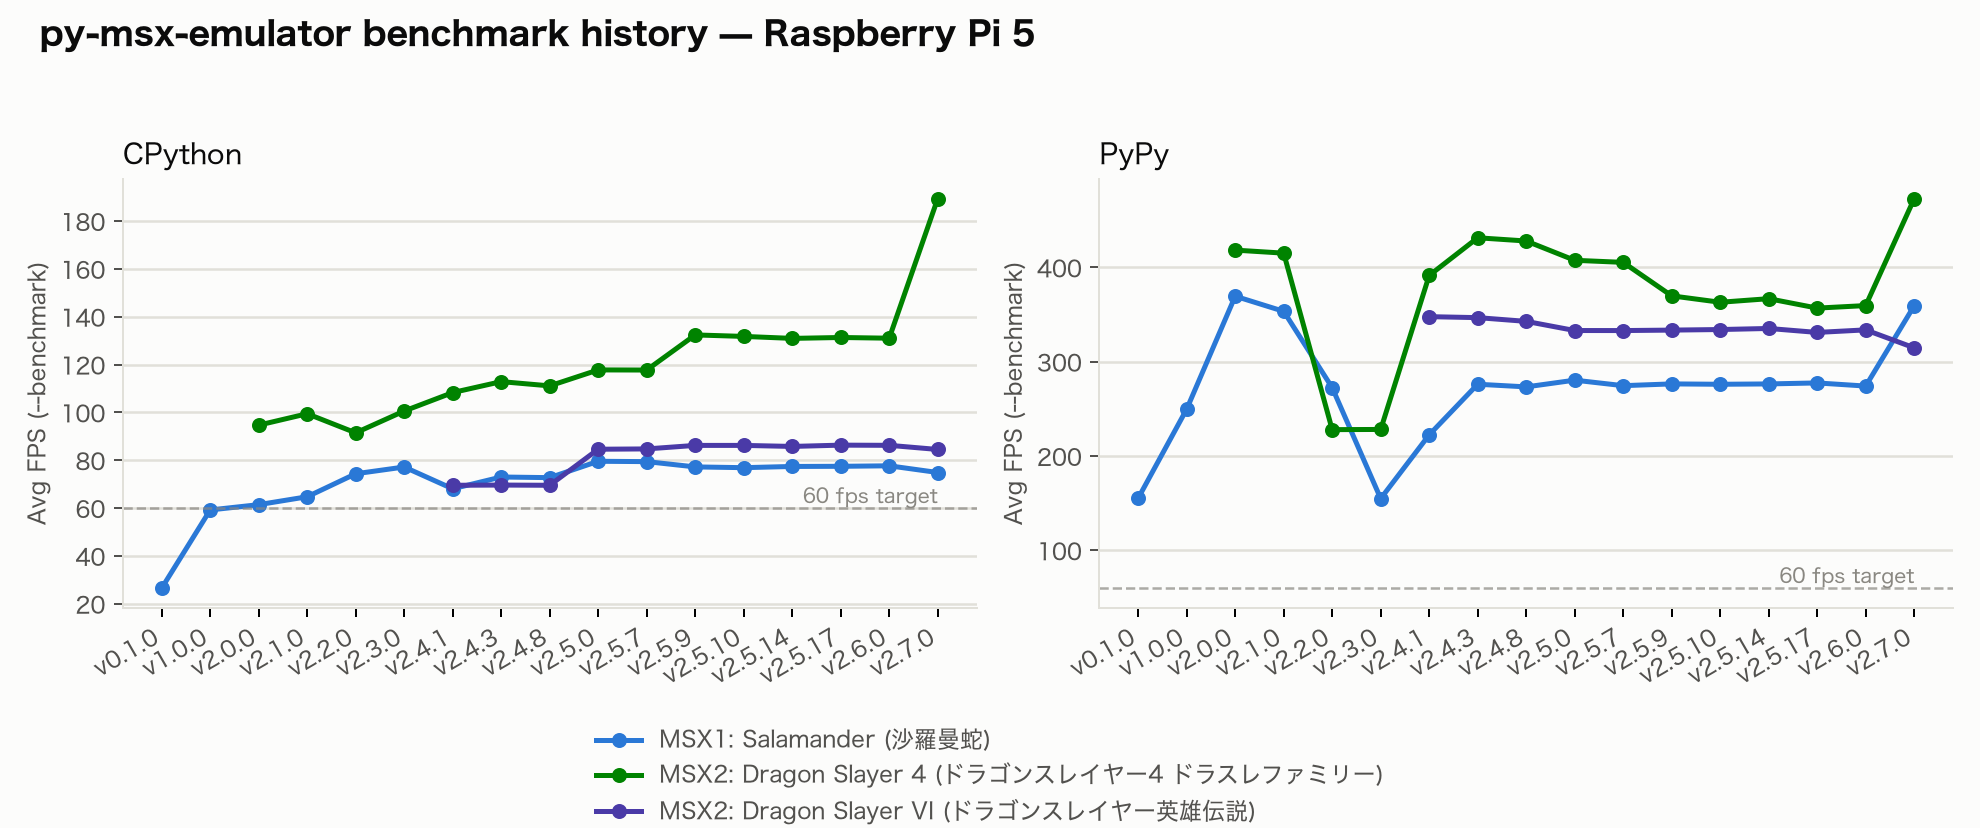
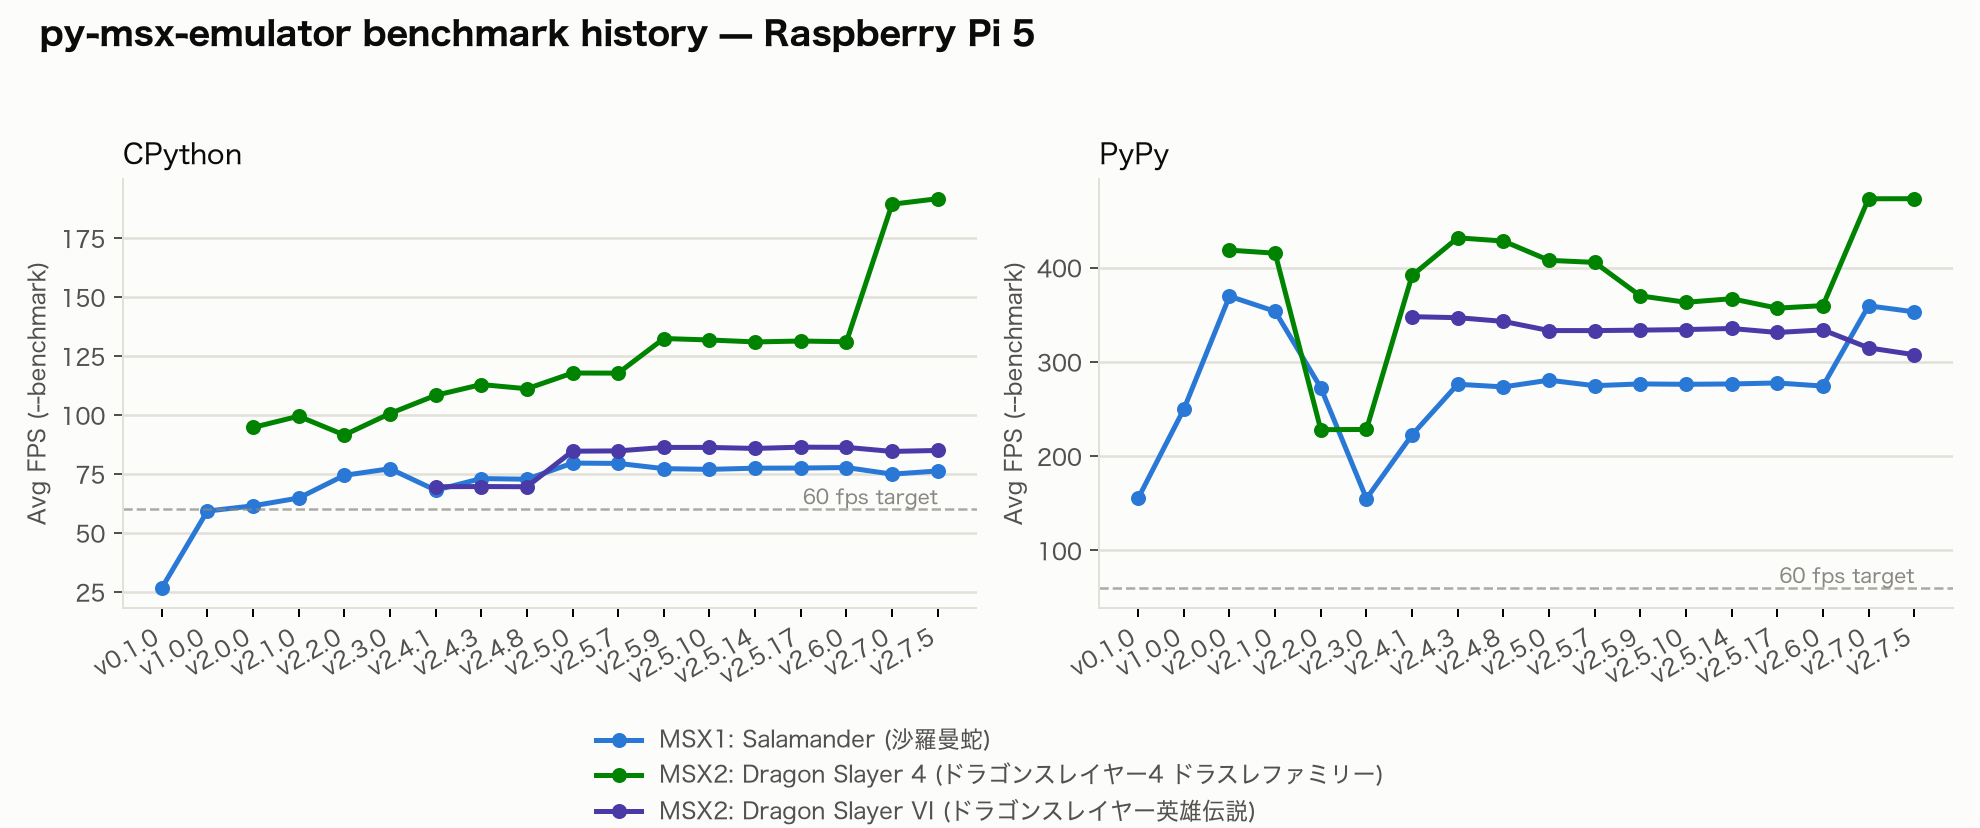
chore(release): prepare v2.7.5 (changelog, version bump, benchmarks)
Add the v2.7.5 benchmark logs, update the README benchmark table and
history charts, write the CHANGELOG entry and bump the version.

diff --git a/README_ja.md b/README_ja.md
@@ -345,26 +345,26 @@ All VRAM addresses SHALL be masked to 14 bits (`& 0x3FFF`).
 
 | プラットフォーム | ランタイム | ゲーム | 平均 FPS（`--benchmark`） | 60 fps 目標との比 |
 | --- | --- | --- | --- | --- |
-| Apple MacBook Pro（M5 Pro） | CPython 3.12.13 | MSX1: 沙羅曼蛇（CPU+TMS9918+SCC） | 285.57 | 約 4.8 倍 |
-| Apple MacBook Pro（M5 Pro） | CPython 3.12.13 | MSX2: ドラゴンスレイヤー4（CPU+V9938+PSG） | 571.82 | 約 9.5 倍 |
-| Apple MacBook Pro（M5 Pro） | CPython 3.12.13 | MSX2: ドラゴンスレイヤー英雄伝説（CPU+V9938+FDC+FMPAC） | 299.56 | 約 5.0 倍 |
-| Apple MacBook Pro（M5 Pro） | PyPy 7.3.19（Python 3.10.16） | MSX1: 沙羅曼蛇（CPU+TMS9918+SCC） | 1123.72 | 約 18.7 倍 |
-| Apple MacBook Pro（M5 Pro） | PyPy 7.3.19（Python 3.10.16） | MSX2: ドラゴンスレイヤー4（CPU+V9938+PSG） | 1269.52 | 約 21.2 倍 |
-| Apple MacBook Pro（M5 Pro） | PyPy 7.3.19（Python 3.10.16） | MSX2: ドラゴンスレイヤー英雄伝説（CPU+V9938+FDC+FMPAC） | 1069.07 | 約 17.8 倍 |
-| Raspberry Pi 5 | CPython 3.12.13 | MSX1: 沙羅曼蛇（CPU+TMS9918+SCC） | 74.91 | 約 1.2 倍 |
-| Raspberry Pi 5 | CPython 3.12.13 | MSX2: ドラゴンスレイヤー4（CPU+V9938+PSG） | 189.38 | 約 3.2 倍 |
-| Raspberry Pi 5 | CPython 3.12.13 | MSX2: ドラゴンスレイヤー英雄伝説（CPU+V9938+FDC+FMPAC） | 84.54 | 約 1.4 倍 |
-| Raspberry Pi 5 | PyPy 7.3.19（Python 3.10.16） | MSX1: 沙羅曼蛇（CPU+TMS9918+SCC） | 359.38 | 約 6.0 倍 |
-| Raspberry Pi 5 | PyPy 7.3.19（Python 3.10.16） | MSX2: ドラゴンスレイヤー4（CPU+V9938+PSG） | 472.93 | 約 7.9 倍 |
-| Raspberry Pi 5 | PyPy 7.3.19（Python 3.10.16） | MSX2: ドラゴンスレイヤー英雄伝説（CPU+V9938+FDC+FMPAC） | 314.82 | 約 5.2 倍 |
+| Apple MacBook Pro（M5 Pro） | CPython 3.12.13 | MSX1: 沙羅曼蛇（CPU+TMS9918+SCC） | 292.67 | 約 4.9 倍 |
+| Apple MacBook Pro（M5 Pro） | CPython 3.12.13 | MSX2: ドラゴンスレイヤー4（CPU+V9938+PSG） | 705.33 | 約 11.8 倍 |
+| Apple MacBook Pro（M5 Pro） | CPython 3.12.13 | MSX2: ドラゴンスレイヤー英雄伝説（CPU+V9938+FDC+FMPAC） | 313.11 | 約 5.2 倍 |
+| Apple MacBook Pro（M5 Pro） | PyPy 7.3.19（Python 3.10.16） | MSX1: 沙羅曼蛇（CPU+TMS9918+SCC） | 1226.14 | 約 20.4 倍 |
+| Apple MacBook Pro（M5 Pro） | PyPy 7.3.19（Python 3.10.16） | MSX2: ドラゴンスレイヤー4（CPU+V9938+PSG） | 1412.82 | 約 23.5 倍 |
+| Apple MacBook Pro（M5 Pro） | PyPy 7.3.19（Python 3.10.16） | MSX2: ドラゴンスレイヤー英雄伝説（CPU+V9938+FDC+FMPAC） | 1151.97 | 約 19.2 倍 |
+| Raspberry Pi 5 | CPython 3.12.13 | MSX1: 沙羅曼蛇（CPU+TMS9918+SCC） | 76.25 | 約 1.3 倍 |
+| Raspberry Pi 5 | CPython 3.12.13 | MSX2: ドラゴンスレイヤー4（CPU+V9938+PSG） | 191.72 | 約 3.2 倍 |
+| Raspberry Pi 5 | CPython 3.12.13 | MSX2: ドラゴンスレイヤー英雄伝説（CPU+V9938+FDC+FMPAC） | 84.96 | 約 1.4 倍 |
+| Raspberry Pi 5 | PyPy 7.3.19（Python 3.10.16） | MSX1: 沙羅曼蛇（CPU+TMS9918+SCC） | 353.01 | 約 5.9 倍 |
+| Raspberry Pi 5 | PyPy 7.3.19（Python 3.10.16） | MSX2: ドラゴンスレイヤー4（CPU+V9938+PSG） | 472.98 | 約 7.9 倍 |
+| Raspberry Pi 5 | PyPy 7.3.19（Python 3.10.16） | MSX2: ドラゴンスレイヤー英雄伝説（CPU+V9938+FDC+FMPAC） | 307.53 | 約 5.1 倍 |
 
-今回計測したすべての組み合わせが、生の 60 fps 目標をクリアしています。最も余裕が小さいのは Raspberry Pi 5 + CPython で沙羅曼蛇（MSX1、KonamiSCC マッパー、対象タイトルの中で描画・オーディオ負荷が最も重い）を実行した場合で、約 1.2 倍です。PyPy に切り替えると同じケースが約 6.0 倍まで上がります。Raspberry Pi 5 より低速なハードウェア、あるいはより重いタイトルでは 60 fps を下回ることがあり、その場合は達成されたフレームレートに比例してゲームがスローモーションで動作します。オーディオサンプルはフレームごとに生成される一方でオーディオデバイスは常に 44100 Hz で消費するため、オーディオも劣化します（クリックノイズや無音）。PyPy3 はそのまま代替として使えるランタイムであり、処理能力の低いハードウェアでのスループットを大幅に改善するため、Raspberry Pi のような制約のあるハードウェアで余裕を保つために推奨されます。
+今回計測したすべての組み合わせが、生の 60 fps 目標をクリアしています。最も余裕が小さいのは Raspberry Pi 5 + CPython で沙羅曼蛇（MSX1、KonamiSCC マッパー、対象タイトルの中で描画・オーディオ負荷が最も重い）を実行した場合で、約 1.3 倍です。PyPy に切り替えると同じケースが約 5.9 倍まで上がります。Raspberry Pi 5 より低速なハードウェア、あるいはより重いタイトルでは 60 fps を下回ることがあり、その場合は達成されたフレームレートに比例してゲームがスローモーションで動作します。オーディオサンプルはフレームごとに生成される一方でオーディオデバイスは常に 44100 Hz で消費するため、オーディオも劣化します（クリックノイズや無音）。PyPy3 はそのまま代替として使えるランタイムであり、処理能力の低いハードウェアでのスループットを大幅に改善するため、Raspberry Pi のような制約のあるハードウェアで余裕を保つために推奨されます。
 
 PyPy の数値は CPython よりも実行ごとのブレが大きくなりやすい点に注意してください。特定の（プラットフォーム、ゲーム）の組み合わせで、通常の範囲から大きく外れた値が出ることがあります。エミュレータ自体の問題というより、OS/ハードウェア側のスケジューリング挙動（コア間の移動やサーマルスロットリングなど）が原因である可能性が高いです。PyPy の数値は正確な値というより、大まかな目安として捉えてください。
 
 ### ベンチマーク推移
 
-v0.1.0 から v2.7.0 までの平均 FPS（`--benchmark`）の推移（プラットフォーム・ランタイム別）。すべて上記のコールドブート方式で統一して計測しています。
+v0.1.0 から v2.7.5 までの平均 FPS（`--benchmark`）の推移（プラットフォーム・ランタイム別）。すべて上記のコールドブート方式で統一して計測しています。
 
 ![Apple MacBook Pro（M5 Pro）でのベンチマーク推移](assets/bench-history-m5pro.png)
 

diff --git a/README.md b/README.md
@@ -583,23 +583,23 @@ the fastest and the slowest run.
 
 | Platform | Runtime | Game | Avg FPS (`--benchmark`) | vs. 60 fps target |
 | --- | --- | --- | --- | --- |
-| Apple MacBook Pro (M5 Pro) | CPython 3.12.13 | MSX1: Salamander (CPU+TMS9918+SCC) | 285.57 | ~4.8× |
-| Apple MacBook Pro (M5 Pro) | CPython 3.12.13 | MSX2: Dragon Slayer 4 (CPU+V9938+PSG) | 571.82 | ~9.5× |
-| Apple MacBook Pro (M5 Pro) | CPython 3.12.13 | MSX2: Dragon Slayer VI - The Legend of Heroes (CPU+V9938+FDC+FMPAC) | 299.56 | ~5.0× |
-| Apple MacBook Pro (M5 Pro) | PyPy 7.3.19 (Python 3.10.16) | MSX1: Salamander (CPU+TMS9918+SCC) | 1123.72 | ~18.7× |
-| Apple MacBook Pro (M5 Pro) | PyPy 7.3.19 (Python 3.10.16) | MSX2: Dragon Slayer 4 (CPU+V9938+PSG) | 1269.52 | ~21.2× |
-| Apple MacBook Pro (M5 Pro) | PyPy 7.3.19 (Python 3.10.16) | MSX2: Dragon Slayer VI - The Legend of Heroes (CPU+V9938+FDC+FMPAC) | 1069.07 | ~17.8× |
-| Raspberry Pi 5 | CPython 3.12.13 | MSX1: Salamander (CPU+TMS9918+SCC) | 74.91 | ~1.2× |
-| Raspberry Pi 5 | CPython 3.12.13 | MSX2: Dragon Slayer 4 (CPU+V9938+PSG) | 189.38 | ~3.2× |
-| Raspberry Pi 5 | CPython 3.12.13 | MSX2: Dragon Slayer VI - The Legend of Heroes (CPU+V9938+FDC+FMPAC) | 84.54 | ~1.4× |
-| Raspberry Pi 5 | PyPy 7.3.19 (Python 3.10.16) | MSX1: Salamander (CPU+TMS9918+SCC) | 359.38 | ~6.0× |
-| Raspberry Pi 5 | PyPy 7.3.19 (Python 3.10.16) | MSX2: Dragon Slayer 4 (CPU+V9938+PSG) | 472.93 | ~7.9× |
-| Raspberry Pi 5 | PyPy 7.3.19 (Python 3.10.16) | MSX2: Dragon Slayer VI - The Legend of Heroes (CPU+V9938+FDC+FMPAC) | 314.82 | ~5.2× |
+| Apple MacBook Pro (M5 Pro) | CPython 3.12.13 | MSX1: Salamander (CPU+TMS9918+SCC) | 292.67 | ~4.9× |
+| Apple MacBook Pro (M5 Pro) | CPython 3.12.13 | MSX2: Dragon Slayer 4 (CPU+V9938+PSG) | 705.33 | ~11.8× |
+| Apple MacBook Pro (M5 Pro) | CPython 3.12.13 | MSX2: Dragon Slayer VI - The Legend of Heroes (CPU+V9938+FDC+FMPAC) | 313.11 | ~5.2× |
+| Apple MacBook Pro (M5 Pro) | PyPy 7.3.19 (Python 3.10.16) | MSX1: Salamander (CPU+TMS9918+SCC) | 1226.14 | ~20.4× |
+| Apple MacBook Pro (M5 Pro) | PyPy 7.3.19 (Python 3.10.16) | MSX2: Dragon Slayer 4 (CPU+V9938+PSG) | 1412.82 | ~23.5× |
+| Apple MacBook Pro (M5 Pro) | PyPy 7.3.19 (Python 3.10.16) | MSX2: Dragon Slayer VI - The Legend of Heroes (CPU+V9938+FDC+FMPAC) | 1151.97 | ~19.2× |
+| Raspberry Pi 5 | CPython 3.12.13 | MSX1: Salamander (CPU+TMS9918+SCC) | 76.25 | ~1.3× |
+| Raspberry Pi 5 | CPython 3.12.13 | MSX2: Dragon Slayer 4 (CPU+V9938+PSG) | 191.72 | ~3.2× |
+| Raspberry Pi 5 | CPython 3.12.13 | MSX2: Dragon Slayer VI - The Legend of Heroes (CPU+V9938+FDC+FMPAC) | 84.96 | ~1.4× |
+| Raspberry Pi 5 | PyPy 7.3.19 (Python 3.10.16) | MSX1: Salamander (CPU+TMS9918+SCC) | 353.01 | ~5.9× |
+| Raspberry Pi 5 | PyPy 7.3.19 (Python 3.10.16) | MSX2: Dragon Slayer 4 (CPU+V9938+PSG) | 472.98 | ~7.9× |
+| Raspberry Pi 5 | PyPy 7.3.19 (Python 3.10.16) | MSX2: Dragon Slayer VI - The Legend of Heroes (CPU+V9938+FDC+FMPAC) | 307.53 | ~5.1× |
 
 Every tested combination is faster than the raw 60 fps target. The smallest
-margin is ~1.2×, on Raspberry Pi 5 with CPython and Salamander. Salamander
+margin is ~1.3×, on Raspberry Pi 5 with CPython and Salamander. Salamander
 (MSX1, KonamiSCC mapper) has the heaviest rendering and audio load of the
-target titles. PyPy increases the same case to ~6.0×.
+target titles. PyPy increases the same case to ~5.9×.
 
 On hardware slower than a Raspberry Pi 5, or with a heavier title, a run can
 still go below 60 fps. If this occurs, the game runs in slow motion, at a rate
@@ -617,7 +617,7 @@ values, not exact values.
 
 ### Benchmark history
 
-Avg FPS (`--benchmark`) from v0.1.0 through v2.7.0, per platform and runtime.
+Avg FPS (`--benchmark`) from v0.1.0 through v2.7.5, per platform and runtime.
 The author measured all versions with the same cold-boot method as above.
 
 ![Benchmark history on Apple MacBook Pro (M5 Pro)](assets/bench-history-m5pro.png)

diff --git a/CHANGELOG_ja.md b/CHANGELOG_ja.md
@@ -2,6 +2,19 @@
 
 [English version here](CHANGELOG.md)
 
+- **v2.7.5** (2026-10-08): 作者所有の実機 Sony HB-10 でのテストで見つかった MSX1 VDP と PPI の動作を修正。
+  - MSX1 VDP(TMS9918A): ポート 0x98 への書き込みで先読みバッファも更新するので、OUT の直後の IN は書いた値を返す
+    (V9938 と同じ)。
+  - PPI: HB-10(Yamaha S3527)でポート 0xAB を読むと、最後の PPI アクセスでラッチされたバイトを返す。0xA8〜0xAA の
+    読み出しなら読んだ値、0xA8〜0xAB への書き込みなら書いた値のビット反転。`ppi8255` デバイスの設定
+    `control_readback`(true/false)を `control_read` に置き換えた: `control`(最後のモード設定値、デフォルト)、
+    `open_bus`(0xFF、S1985 搭載マシン)、`bus_latch`(`hb_10`、`hb_10_64k`)。`control_readback` を設定したままの
+    マシンファイルは、`control_read` を示すエラーで読み込みを拒否する。
+  - HB-10 では、R レジスタの増え方、非公式の Y/X フラグ、DD プレフィックスの実行時間、NEG/RETN の ED ミラー、MSX1
+    VDP の書きかけの制御ポートの扱いも確認した。どれも変更は不要だった。
+  - ドキュメントを現在の動作に合わせた: R の数え方、マシンごとの PPI 0xAB の読み出し値、ローダーが読む `ppi8255` の
+    キー、デバッガの `reset` の対象範囲、`te` が両方の VDP で動くこと、トレースの出力形式。ベンチマークの表と推移
+    グラフを v2.7.5 に更新した。
 - **v2.7.4** (2026-10-07): V9938 の R#13 ブリンクを実装。作者所有の実機 Sony HB-F1XD でのテストで見つかった V9938、
   Z80、PPI の動作を修正。
   - 新機能: R#13 ブリンク。TEXT2(SCREEN 0、WIDTH 80)では、ブリンクテーブルで指定した文字が ON の期間に R#12 の色で

diff --git a/CHANGELOG.md b/CHANGELOG.md
@@ -2,6 +2,19 @@
 
 [日本語版はこちら](CHANGELOG_ja.md)
 
+- **v2.7.5** (2026-10-08): Fix the MSX1 VDP and the PPI behaviour found by tests on the author's real Sony HB-10.
+  - MSX1 VDP (TMS9918A): a port 0x98 write also refills the read-ahead buffer, so an IN right after an OUT returns the
+    written byte, as on the V9938.
+  - PPI: a port 0xAB read on the HB-10 (Yamaha S3527) returns a byte latched by the last PPI access: the byte a read of
+    0xA8-0xAA returned, or the inverse of the byte a write to 0xA8-0xAB carried. The `ppi8255` device setting
+    `control_readback` (true/false) is replaced by `control_read`: `control` (the last mode word, the default),
+    `open_bus` (0xFF, the S1985 machines) or `bus_latch` (`hb_10`, `hb_10_64k`). A machine file that still sets
+    `control_readback` is rejected with a message naming `control_read`.
+  - The HB-10 also confirmed the R register count, the undocumented Y/X flags, the absorbed DD prefix timing, the ED
+    mirrors of NEG/RETN and the half-written control pair on the MSX1 VDP; no change was needed there.
+  - Documentation matches the current behaviour: R counting, the per-machine PPI 0xAB read, the loader's `ppi8255`
+    keys, the full scope of the debugger `reset`, `te` on both VDP types and the trace output format. Benchmark table
+    and history charts updated to v2.7.5.
 - **v2.7.4** (2026-10-07): Emulate the V9938 R#13 blink, and fix V9938, Z80 and PPI behaviour found by tests on the
   author's real Sony HB-F1XD.
   - New: R#13 blink. In TEXT2 (SCREEN 0, WIDTH 80), characters marked in the blink table use the R#12 colours during
